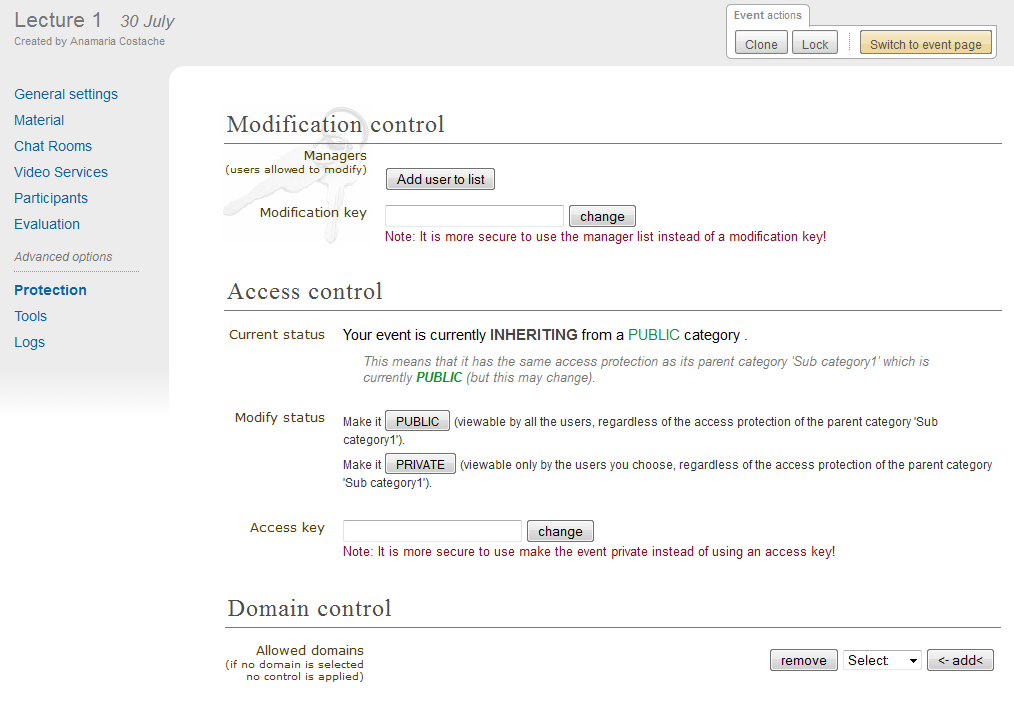
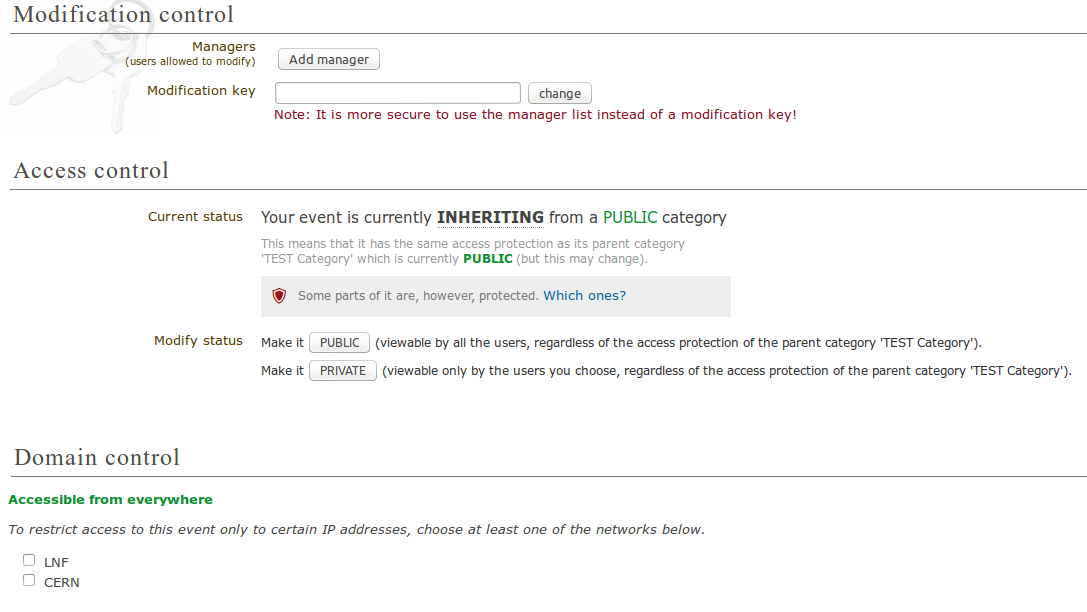
[DOC] Protection updated
- See #1072

diff --git a/doc/guides/UserGuide/Conferences.rst b/doc/guides/UserGuide/Conferences.rst
@@ -1359,6 +1359,13 @@ in order to request access.
 
 |image49|
 
+If the conference is PUBLIC and has some element that is PRIVATE, there will
+show a message 'Some parts of it are, however, protected. Which ones?'. If you
+click in 'Which ones?' it will show a popup with the children protected. The same
+works when the conference is PRIVATE and has PUBLIC elements.
+
+|image158|
+
 Also when private you can also add an Access Key which means anyone
 with this key can access the conference without logging in. Users
 will get a message as the following:
@@ -2043,3 +2050,4 @@ session. You may also make a PDF of the session.
 .. |image155| image:: UserGuidePics/confd152.png
 .. |image156| image:: UserGuidePics/abstractBackToSubmitted.png
 .. |image157| image:: UserGuidePics/abstractBackToSubmittedConfirm.png
+.. |image158| image:: UserGuidePics/childrenProtectedPopup.png

diff --git a/doc/guides/UserGuide/Lectures.rst b/doc/guides/UserGuide/Lectures.rst
@@ -176,6 +176,13 @@ with this key can access the lecture without logging in.
 
 |image146|
 
+If the lecture is PUBLIC and has some element that is PRIVATE, there will
+show a message 'Some parts of it are, however, protected. Which ones?'. If you
+click in 'Which ones?' it will show a popup with the children protected. The same
+works when the lecture is PRIVATE and has PUBLIC elements.
+
+|image167|
+
 *Domain Control* This is available when the lecture is
 public. You can specify which domain can access the lecture. For
 instance, choosing CERN as a domain means only users accessing
@@ -373,3 +380,4 @@ The Event style:
 .. |image164| image:: UserGuidePics/lectureLock.png
 .. |image165| image:: UserGuidePics/chatroom1.png
 .. |image166| image:: UserGuidePics/chatroom2.png
+.. |image167| image:: UserGuidePics/childrenProtectedLecturePopup.png

diff --git a/doc/guides/UserGuide/Meetings.rst b/doc/guides/UserGuide/Meetings.rst
@@ -297,6 +297,13 @@ of the meeting (see :ref:`access_control`)
 
 |image120|
 
+If the meeting is PUBLIC and has some element that is PRIVATE, there will
+show a message 'Some parts of it are, however, protected. Which ones?'. If you
+click in 'Which ones?' it will show a popup with the children protected. The same
+works when the meeting is PRIVATE and has PUBLIC elements.
+
+|image165|
+
 If the conference is  PRIVATE the event manager will be able to set a
 'Contact in case of no access', so users with no access will know who to contact
 in order to request access.
@@ -587,3 +594,4 @@ The Parellel style:
 .. |image162| image:: UserGuidePics/manage.png
 .. |image163| image:: UserGuidePics/minutes.png
 .. |image164| image:: UserGuidePics/ical.png
+.. |image165| image:: UserGuidePics/childrenProtectedPopup.png
